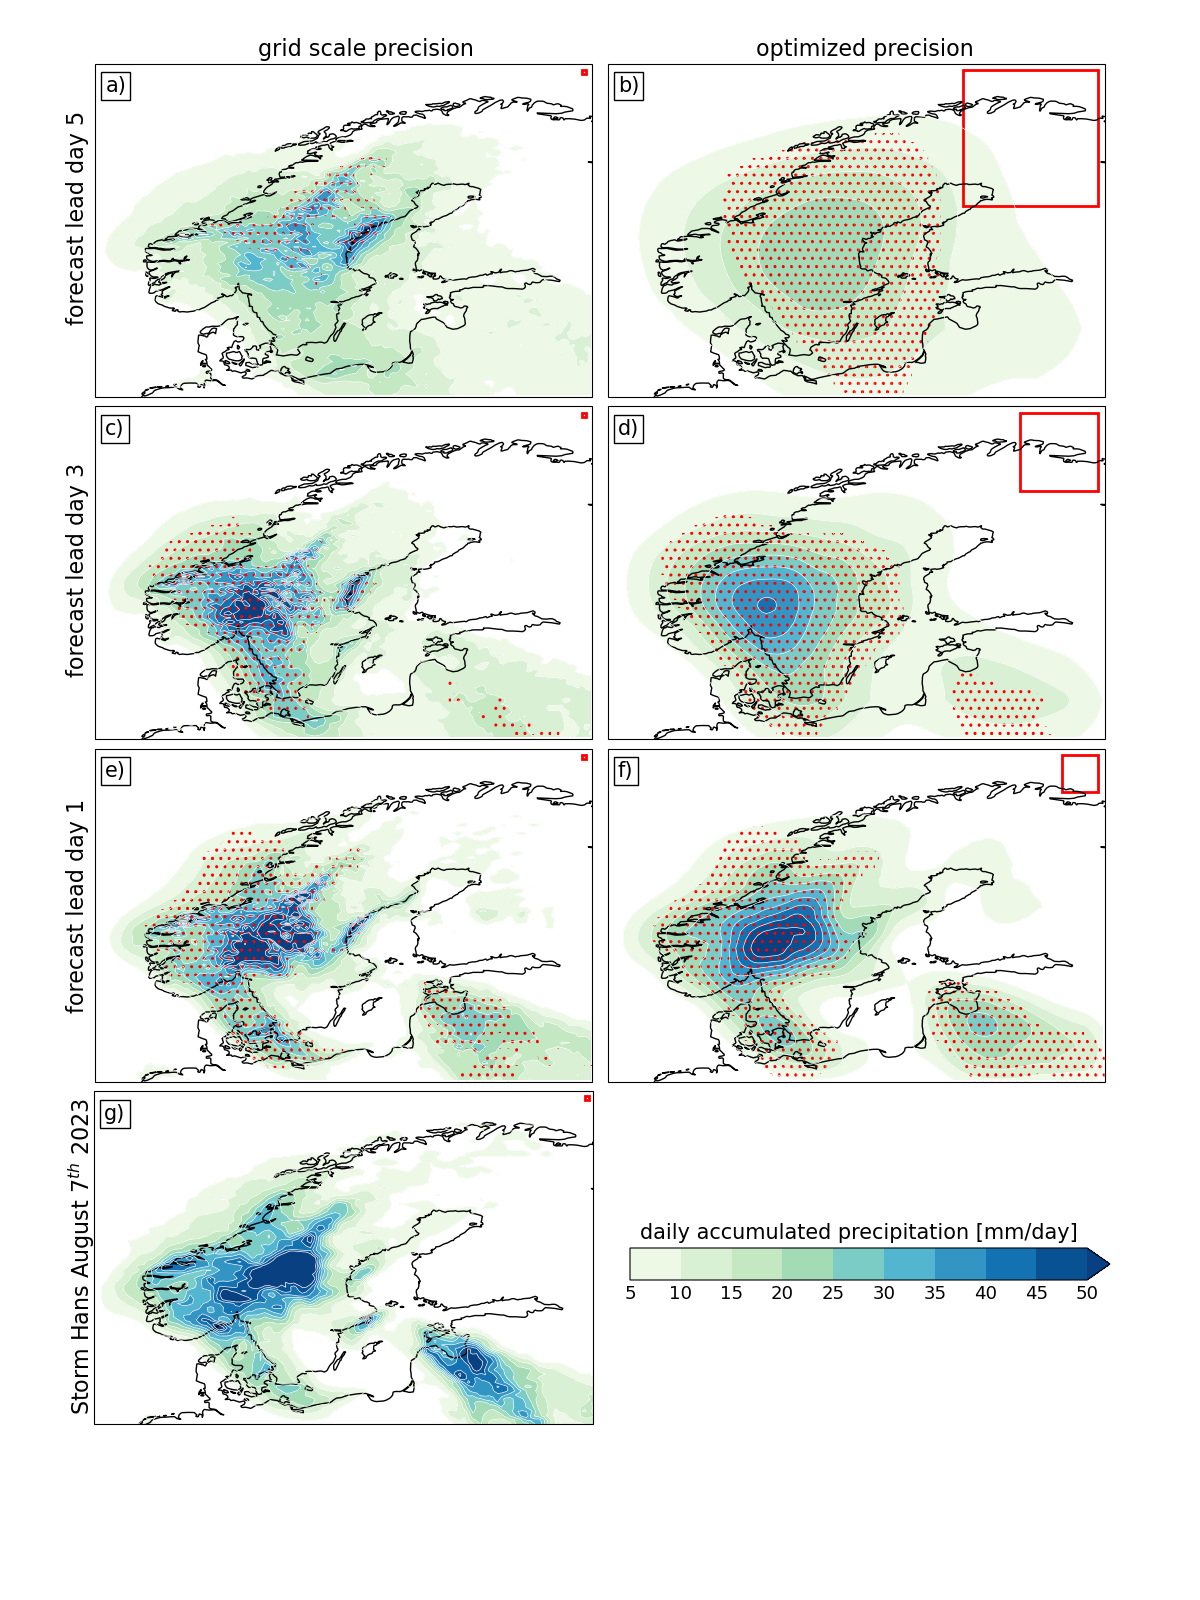
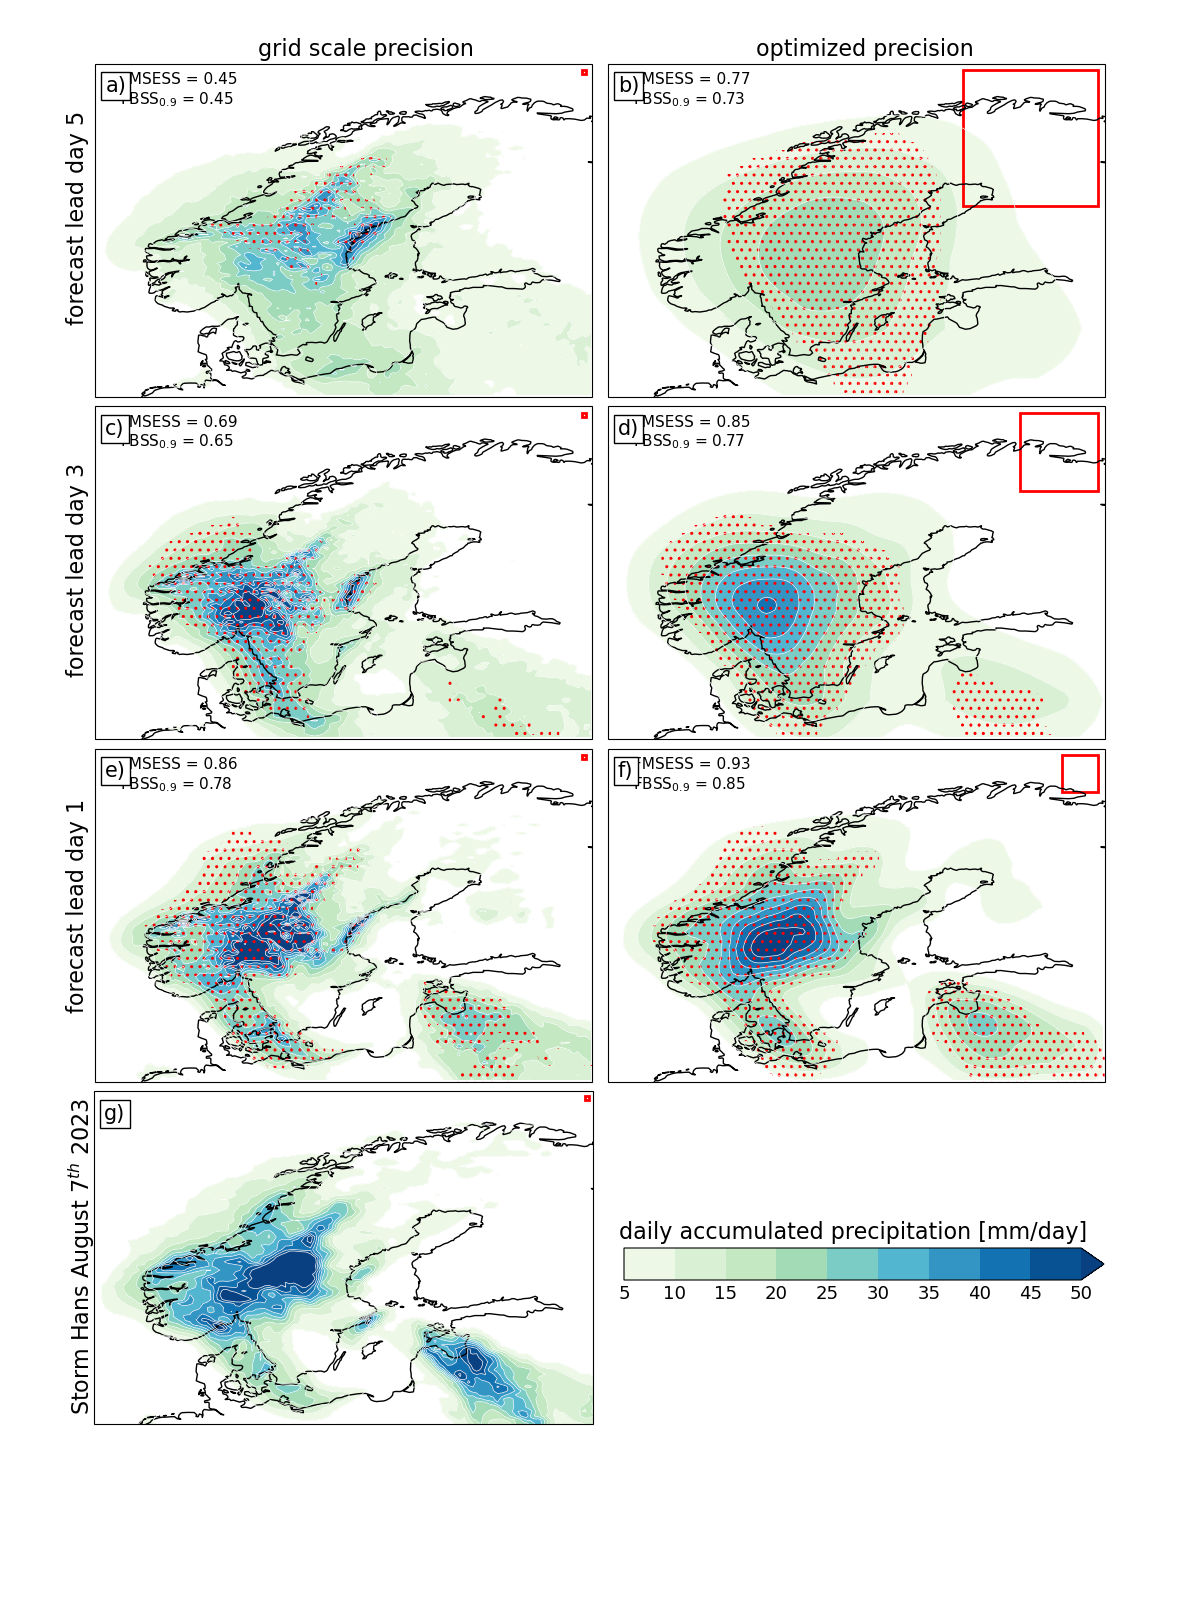
update

diff --git a/code/plot/test.py b/code/plot/test.py
@@ -27,7 +27,7 @@ def setup_subplot_xy(flag, ax, ds1, ds2, clevs, cmap, fontsize, title, stats):
         rectangle_length = 0.25*ds2['box_size']
         rectangle = plt.Rectangle((31.75, 72.75), rectangle_length, rectangle_length, angle=180, fc=(0.5,0.5,0.5,0),ec='r',lw=2)
         ax.add_patch(rectangle)        
-        #ax.text(0.02,0.88,stats,fontsize=fontsize,transform=ax.transAxes)
+        ax.text(0.05,0.88,stats,fontsize=fontsize,transform=ax.transAxes)
     else:
         rectangle = plt.Rectangle((31.75, 72.75), 0.25, 0.25, angle=180, fc=(0.5,0.5,0.5,0),ec='r',lw=2)
         ax.add_patch(rectangle)
@@ -117,10 +117,10 @@ setup_subplot_xy(7, ax[6], da5['EFI'], da7[variable], clevs, cmap, fontsize, 'g)
 
 ax[7].set_frame_on(False)
 
-cbar_ax = fig.add_axes([0.525, 0.2, 0.4, 0.02])
+cbar_ax = fig.add_axes([0.52, 0.2, 0.4, 0.02])
 cb = fig.colorbar(p, cax=cbar_ax, orientation='horizontal',ticks=clevs, pad=0.025)
 cb.ax.tick_params(labelsize=fontsize+2, size=0)
-cb.ax.set_title('daily accumulated precipitation [mm/day]', fontsize=fontsize+4,y=1.01)
+cb.ax.set_title('daily accumulated precipitation [mm/day]', fontsize=fontsize+5,y=1.01)
 
 fig.text(0.215,0.965,'grid scale precision',fontsize=fontsize+5)
 fig.text(0.63,0.965,'optimized precision',fontsize=fontsize+5)
